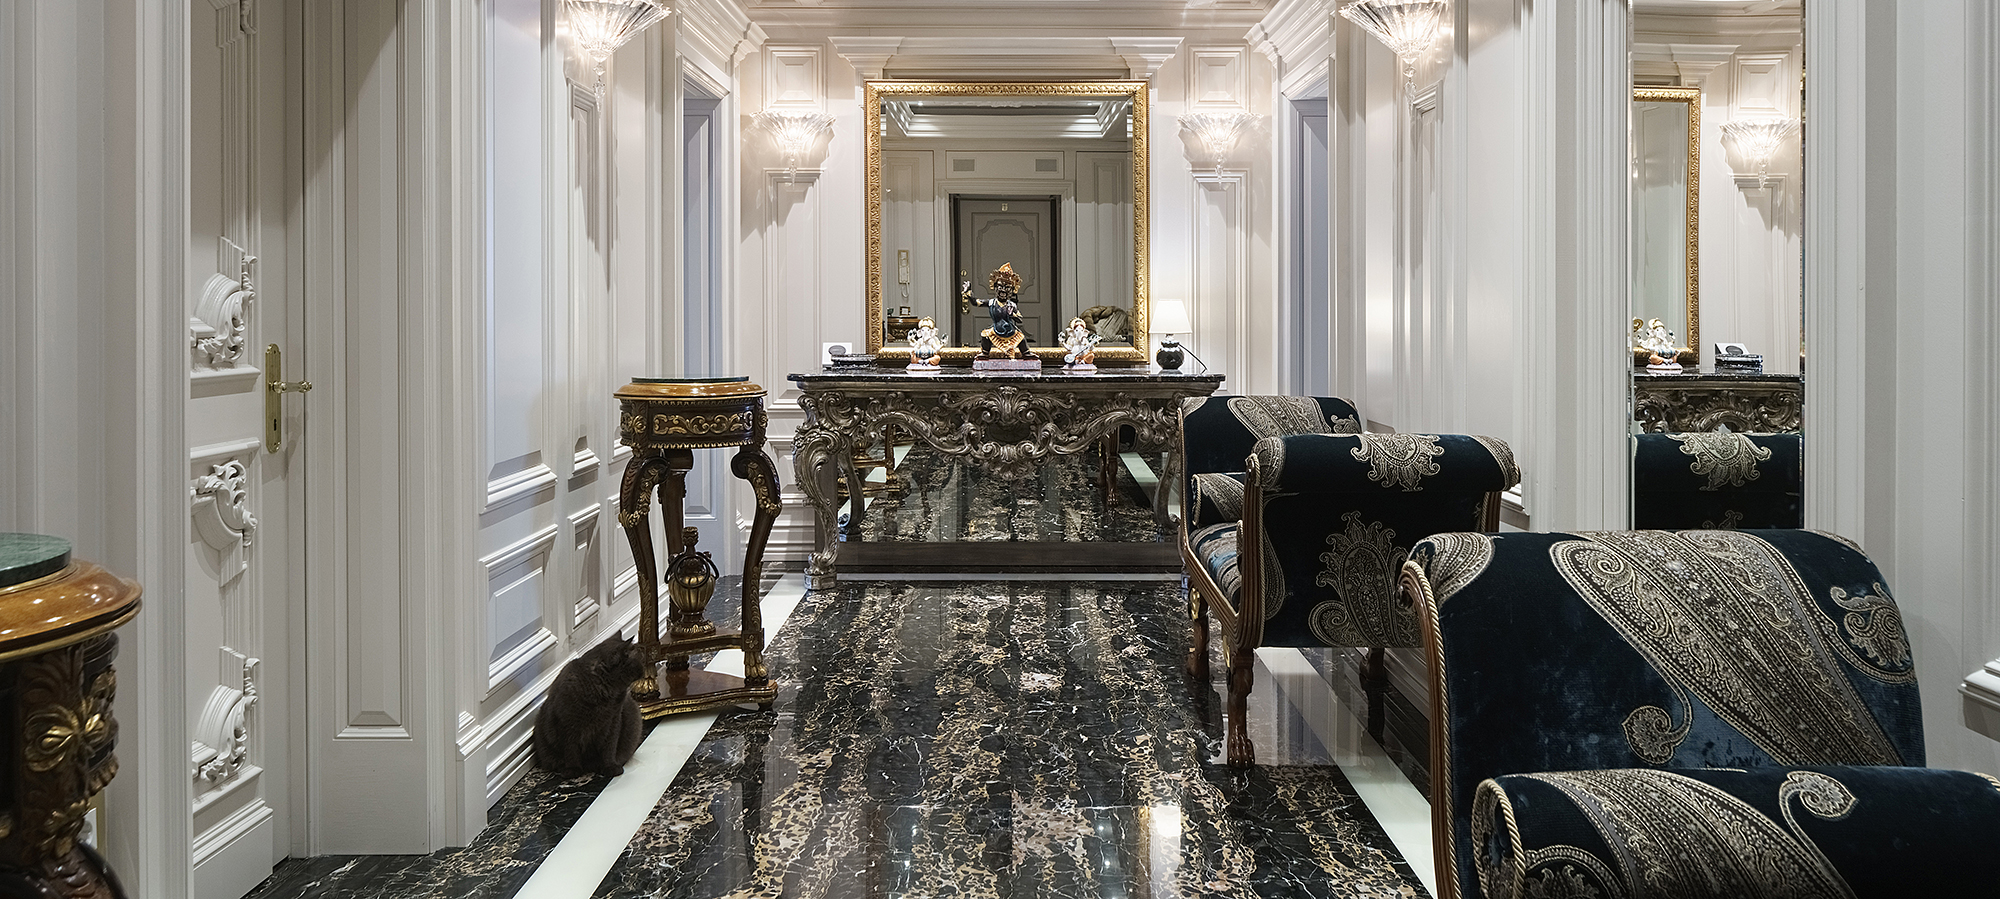
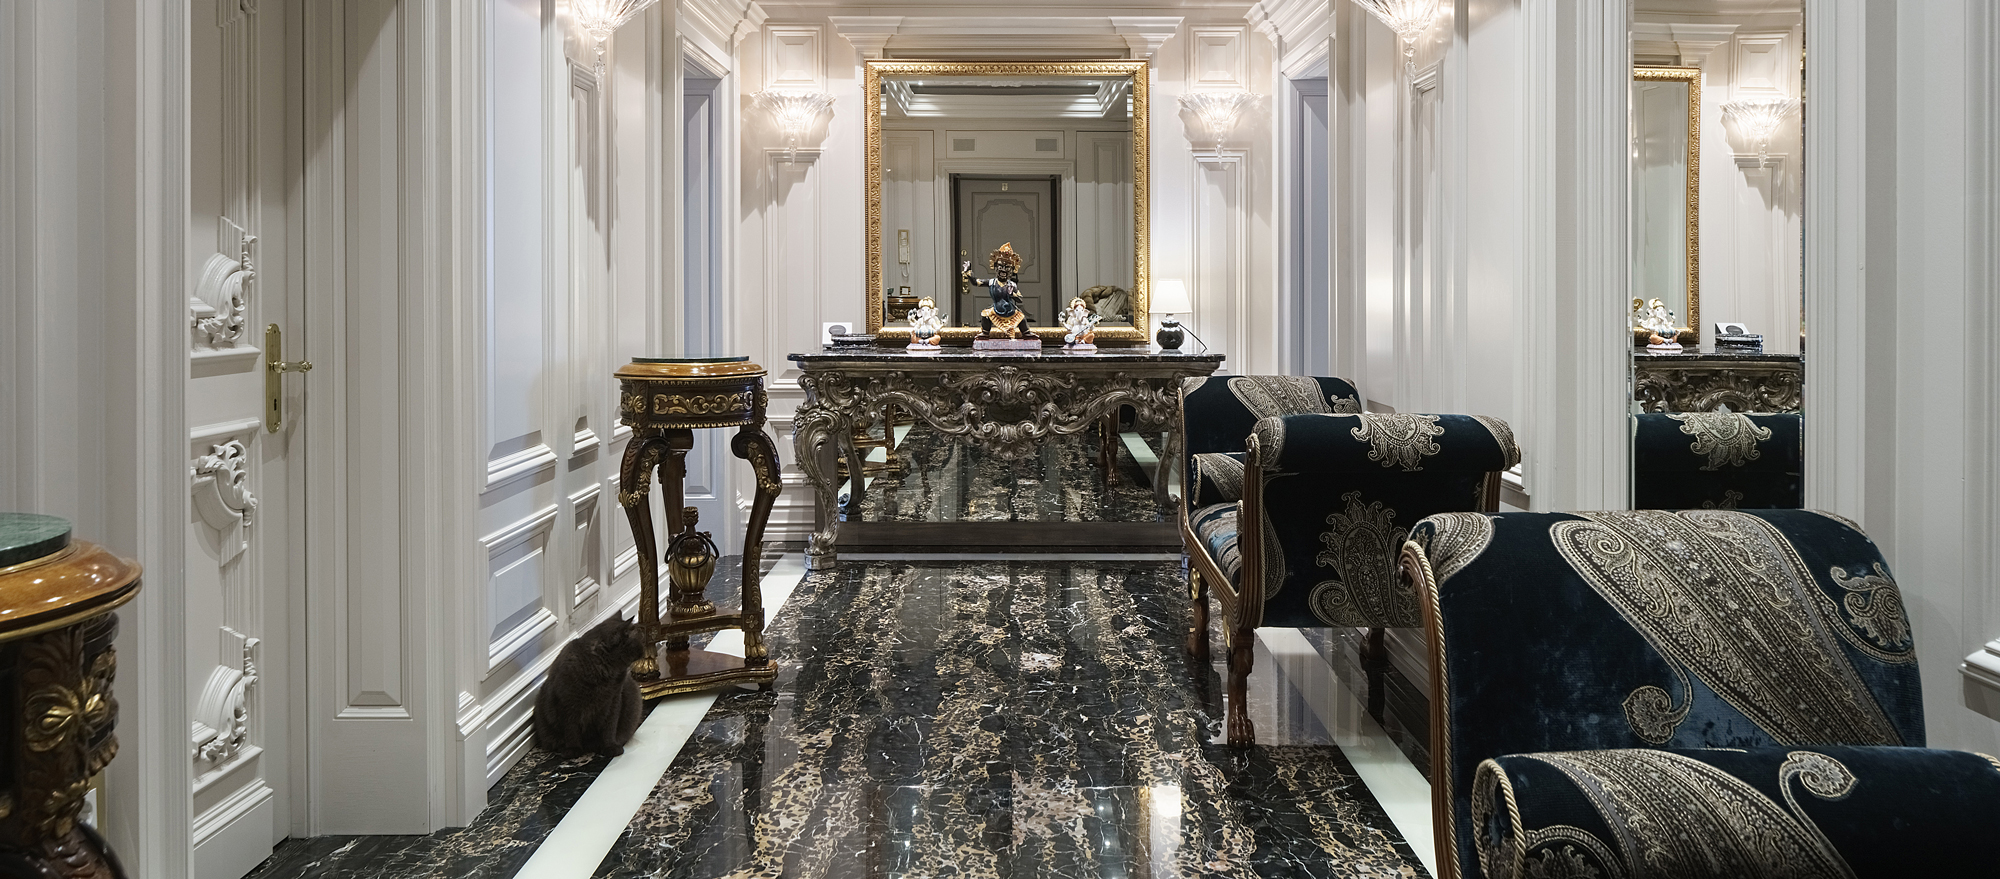
edited

diff --git a/src/scss/modules/gallery.scss b/src/scss/modules/gallery.scss
@@ -1,0 +1,75 @@
+.gallery{
+  padding: 40px 0 0;
+  & .container {
+    & ul.tab__list{
+      display: flex;
+      justify-content: center;
+      margin-bottom: 40px;
+      align-items: flex-start;
+      & li.tab{
+        width: 50%;
+        & a{
+          font-weight: $bold;
+          font-size: $fz12;
+          letter-spacing: $ls2;
+          text-transform: uppercase;
+          color: $middleGray;
+          &.active{
+            color: $textColor;
+          }
+        }
+        &:first-child{
+          padding-right: 15px;
+          text-align: right;
+        }
+        &:last-child{
+          padding-left: 15px;
+        }
+      }
+    }
+    & .tabgroup{
+      & .content{
+        & ul.list{
+          display: flex;
+          flex-direction: column;
+          align-items: center;
+          justify-content: space-around;
+          & li.item{
+            margin-bottom: 40px;
+            & .pic{
+              font-size: 0;
+              margin-bottom: 20px;
+            }
+            & span.title{
+              font-size: $fz5;
+              font-weight: $medium;
+              display: block;
+              text-align: center;
+            }
+          }
+        }
+      }
+    }
+  }
+}
+
+@media (min-width: $tablet) {
+  .gallery{
+    & .container{
+      & .tabgroup{
+        & .content{
+          & ul.list{
+            flex-direction: row;
+            flex-wrap: wrap;
+          }
+        }
+      }
+    }
+  }
+}
+
+@media (min-width: $smDesktopWidth){
+  .gallery{
+    padding: 65px 0 90px;
+  }
+}

diff --git a/src/scss/main.scss b/src/scss/main.scss
@@ -44,7 +44,7 @@ a {
 .container {
   padding: 0 10px;
   width: 100%;
-  max-width: 1010px;
+  max-width: 1030px;
   margin: 0 auto;
 }
 
@@ -65,7 +65,7 @@ h2.title {
 
 .page__top{
   padding: 50px 0;
-  background-position: 50% 50%;
+  background-position: 50% 0%;
   background-size: cover;
   background-repeat: no-repeat;
   & h1.title{
@@ -100,6 +100,8 @@ h2.title {
   display: none;
 }
 
+@import "modules/gallery.scss";
+
 @import "modules/header.scss";
 
 @import "modules/menu.scss";
@@ -124,7 +126,7 @@ h2.title {
 
 @import "modules/slick-theme.scss";
 
-@media (min-width: 768px) {
+@media (min-width: $tablet) {
   .visible__sm {
     display: block;
   }
@@ -134,7 +136,7 @@ h2.title {
   }
 }
 
-@media (min-width: 992px) {
+@media (min-width: $smDesktopWidth) {
   .hidden__md{
     display: none;
   }

diff --git a/src/js/component/tab.js b/src/js/component/tab.js
@@ -1,0 +1,19 @@
+function tabFunc() {
+  if($('.gallery')){
+    $('.tabgroup > div').hide();
+    $('.tabgroup > div:first-of-type').show();
+    $('.tab__list a').click(function(e){
+      e.preventDefault();
+      var $this = $(this),
+          tabgroup = '#'+$this.parents('.tab__list').data('tabgroup'),
+          others = $this.closest('li').siblings().children('a'),
+          target = $this.attr('href');
+      others.removeClass('active');
+      $this.addClass('active');
+      $(tabgroup).children('div').hide();
+      $(target).show();
+    });
+  }
+}
+
+export default tabFunc();

diff --git a/src/scss/modules/footer.scss b/src/scss/modules/footer.scss
@@ -59,7 +59,21 @@ footer.footer {
   }
 }
 
-@media (min-width: 992px) {
+@media (min-width: $tablet){
+  footer.footer{
+    footer.footer {
+      & .container{
+        & .part{
+          & h3.title{
+            margin-bottom: 20px;
+          }
+        }
+      }
+    }
+  }
+}
+
+@media (min-width: $smDesktopWidth) {
   footer.footer {
     & .container{
       flex-direction: row;
@@ -67,9 +81,6 @@ footer.footer {
       align-items: flex-start;
       & .part{
         margin-bottom: 0;
-        & h3.title{
-          margin-bottom: 20px;
-        }
       }
     }
   }

diff --git a/src/scss/modules/form.scss b/src/scss/modules/form.scss
@@ -133,7 +133,7 @@ form.form {
   }
 }
 
-@media (min-width: 992px) {
+@media (min-width: $smDesktopWidth) {
   form.form {
     padding: 40px 40px 0 40px;
   }

diff --git a/src/scss/modules/burger.scss b/src/scss/modules/burger.scss
@@ -178,7 +178,7 @@
   }
 }
 
-@media (min-width: 768px) {
+@media (min-width: $tablet) {
   .burger{
     width: 108px;
 

diff --git a/src/js/main.js b/src/js/main.js
@@ -1,1 +1,2 @@
 import check from "./component/scroll";
+import tab from "./component/tab";
